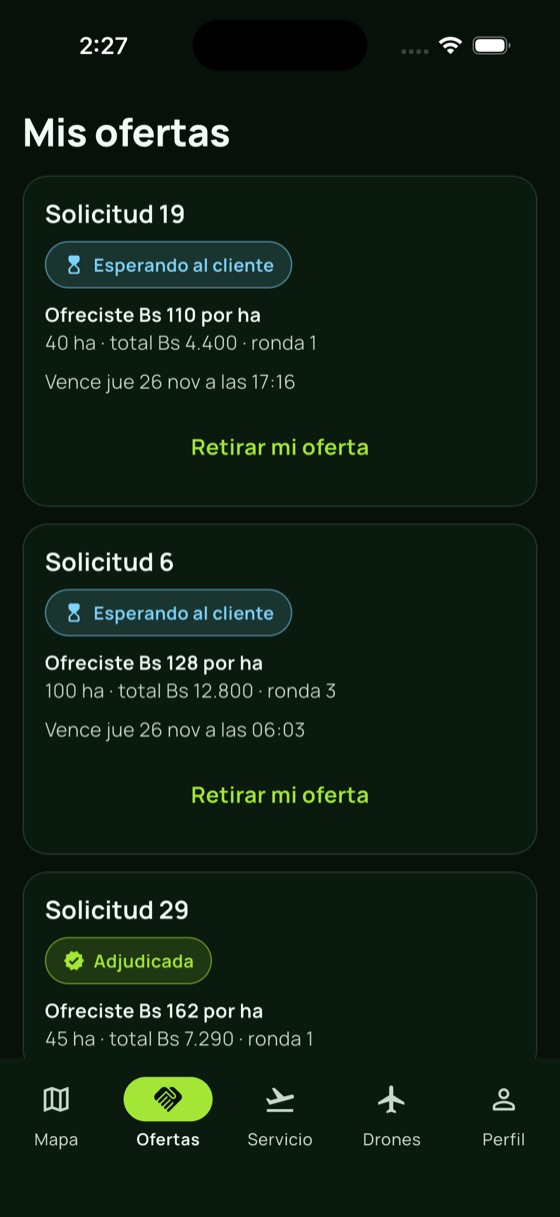
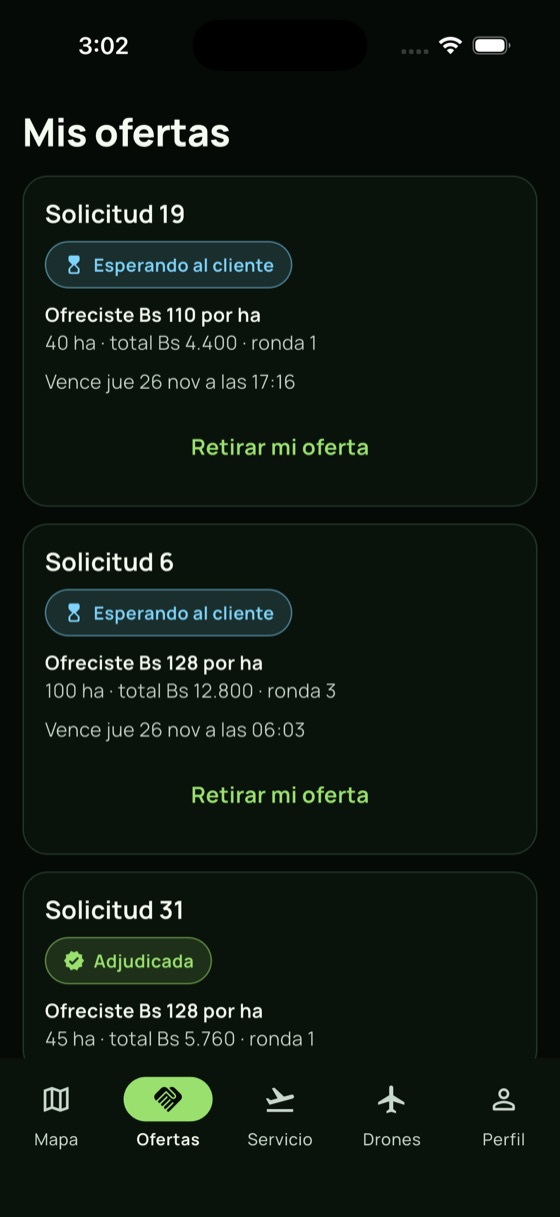
Actualiza capturas del recorrido y reescribe las capturas demo de los tres flavors

diff --git a/integration_test/cliente_capturas_test.dart b/integration_test/cliente_capturas_test.dart
@@ -40,80 +40,23 @@ void main() {
     await paso('solicitar', () async {
       await tocar(t, find.text('Solicitar').last, ms: 1500);
       await captura(t, 'cliente_09_solicitar_lote', ms: 2500);
-      await tocar(t, find.text('Maíz La Curva'));
-      await captura(t, 'cliente_10_solicitar_lote_elegido');
-      await tocar(t, find.byKey(const ValueKey('solicitar-continuar')));
-      await captura(t, 'cliente_11_solicitar_aplicacion');
-      await tocar(t, find.text('Insecticida piretroide'));
-      await bajar(t, 300);
-      await captura(t, 'cliente_12_solicitar_producto');
-      await tocar(t, find.byKey(const ValueKey('solicitar-continuar')));
-      await tocar(t, find.byKey(const ValueKey('fecha-2')));
-      await tocar(t, find.byKey(const ValueKey('ventana-amanecer')));
-      await captura(t, 'cliente_13_solicitar_cuando');
-      await tocar(t, find.byKey(const ValueKey('solicitar-continuar')));
-      await captura(t, 'cliente_14_solicitar_resumen', ms: 1500);
-      await tocar(
-        t,
-        find.byKey(const ValueKey('solicitar-continuar')),
-        ms: 1500,
-      );
-      await captura(t, 'cliente_15_buscando_proveedor', ms: 1500);
     });
-    await paso('servicios', () async {
-      await tocar(t, find.byKey(const ValueKey('buscando-ver-servicio')));
-      await captura(t, 'cliente_16_servicio_buscando');
-      await atras(t);
-      await tocar(t, find.text('Servicios').last, ms: 1500);
-      await captura(t, 'cliente_17_servicios_lista');
-      await tocar(t, find.byKey(const ValueKey('servicio-srv-1042')));
-      await captura(t, 'cliente_18_servicio_en_curso');
+    await paso('solicitudes', () async {
+      await tocar(t, find.text('Solicitudes').last, ms: 1500);
+      await captura(t, 'cliente_10_solicitudes_lista', ms: 1500);
+    });
+    await paso('detalle de solicitud', () async {
+      await tocar(t, porPrefijo('solicitud-'), ms: 2000);
+      await captura(t, 'cliente_11_solicitud_detalle', ms: 1500);
       await bajar(t, 500);
-      await captura(t, 'cliente_19_servicio_en_curso_abajo');
-      await bajar(t, -500);
-      await tocar(t, find.text('Seguir en vivo'), ms: 1500);
-      await captura(t, 'cliente_20_seguimiento', ms: 2000);
-      await bajar(t, 500);
-      await captura(t, 'cliente_21_seguimiento_abajo');
-      await atras(t);
-      await atras(t);
-    });
-    await paso('conformidad y calificación', () async {
-      await tocar(t, find.byKey(const ValueKey('servicio-srv-1036')));
-      await captura(t, 'cliente_22_servicio_por_conformar');
-      await tocar(t, find.text('Revisar y dar conformidad'), ms: 1500);
-      await captura(t, 'cliente_23_acta');
-      await bajar(t, 600);
-      await captura(t, 'cliente_24_acta_abajo');
-      await tocar(t, find.byKey(const ValueKey('dar-conformidad')));
-      await captura(t, 'cliente_25_confirmar_conformidad');
-      await tocar(
-        t,
-        find.byKey(const ValueKey('confirmar-conformidad')),
-        ms: 1500,
-      );
-      await tocar(t, find.text('Calificar al proveedor'));
-      await captura(t, 'cliente_26_calificar');
-      await tocar(t, find.bySemanticsLabel('4 estrellas'));
-      await captura(t, 'cliente_27_calificar_estrellas');
-      await tocar(
-        t,
-        find.byKey(const ValueKey('enviar-calificacion')),
-        ms: 1500,
-      );
-      await captura(t, 'cliente_28_calificado');
-      await atras(t);
-    });
-    await paso('servicio calificado y problema', () async {
-      await tocar(t, find.byKey(const ValueKey('servicio-srv-1039')));
-      await captura(t, 'cliente_29_servicio_calificado');
+      await captura(t, 'cliente_12_solicitud_detalle_abajo');
       await atras(t);
     });
     await paso('cuenta', () async {
       await tocar(t, find.text('Cuenta').last, ms: 1500);
-      await captura(t, 'cliente_30_cuenta');
+      await captura(t, 'cliente_13_cuenta');
       await bajar(t, 500);
-      await captura(t, 'cliente_31_cuenta_abajo');
+      await captura(t, 'cliente_14_cuenta_abajo');
     });
   });
 }

diff --git a/integration_test/piloto_capturas_test.dart b/integration_test/piloto_capturas_test.dart
@@ -1,40 +1,44 @@
-import 'package:flutter/widgets.dart' show Key;
+import 'package:agrocom_field/nucleo/marketplace/ui/mapa_lote.dart';
 import 'package:agrocom_field/piloto/app_piloto_demo.dart';
 import 'package:agrocom_field/piloto/di/dependencias_piloto.dart';
 import 'package:flutter_test/flutter_test.dart';
 
 import 'ayuda_capturas.dart';
 
+/// Capturas del flavor piloto con datos ficticios, una por destino de la
+/// barra de navegación (mapa, ofertas, servicio, drones, perfil) y su
+/// continuación. Se ejecutan con `tool/capturar_pantallas.sh`.
 void main() {
   binding;
+  ConfiguracionMapa.teselas = false;
   testWidgets('piloto: recorrido de capturas', (t) async {
     await t.pumpWidget(AppPilotoDemo(dependencias: DependenciasPiloto.demo()));
-    await captura(t, 'piloto_01_ofertas');
-    await paso('oferta detalle', () async {
-      await tocar(t, find.text('Ver detalle y mapa'));
-      await captura(t, 'piloto_02_oferta_detalle');
-      await bajar(t, 500);
-      await captura(t, 'piloto_03_oferta_detalle_abajo');
-      await atras(t);
-    });
-    await paso('servicio', () async {
-      await tocar(t, find.text('Servicio').last);
-      await captura(t, 'piloto_04_servicio');
-      await bajar(t, 600);
-      await captura(t, 'piloto_05_servicio_abajo');
-    });
-    await paso('detalle servicio', () async {
-      await tocar(t, find.byKey(const Key('boton_ver_detalle')));
-      await captura(t, 'piloto_06_servicio_detalle');
-      await bajar(t, 500);
-      await captura(t, 'piloto_07_servicio_detalle_abajo');
-      await atras(t);
-    });
-    await paso('sesion vuelo', () async {
-      await tocar(t, find.byKey(const Key('boton_abrir_sesion_vuelo')));
-      await captura(t, 'piloto_08_sesion_apertura');
-      await bajar(t, 600);
-      await captura(t, 'piloto_09_sesion_apertura_abajo');
-    });
+    await captura(t, 'piloto_01_mapa', ms: 1500);
+    for (final (indice, destino) in [
+      (2, 'ofertas'),
+      (3, 'servicio'),
+      (4, 'drones'),
+      (5, 'perfil'),
+    ]) {
+      await paso(destino, () async {
+        await tocar(t, find.text(_etiquetas[destino]!).last, ms: 1500);
+        await captura(
+          t,
+          'piloto_${indice.toString().padLeft(2, '0')}_$destino',
+        );
+        await bajar(t, 600);
+        await captura(
+          t,
+          'piloto_${indice.toString().padLeft(2, '0')}_${destino}_abajo',
+        );
+      });
+    }
   });
 }
+
+const _etiquetas = {
+  'ofertas': 'Ofertas',
+  'servicio': 'Servicio',
+  'drones': 'Drones',
+  'perfil': 'Perfil',
+};

diff --git a/integration_test/auxiliar_capturas_test.dart b/integration_test/auxiliar_capturas_test.dart
@@ -1,52 +1,27 @@
 import 'package:agrocom_field/auxiliar/app_auxiliar_demo.dart';
 import 'package:agrocom_field/auxiliar/di/dependencias_auxiliar.dart';
-import 'package:flutter/material.dart';
 import 'package:flutter_test/flutter_test.dart';
 
 import 'ayuda_capturas.dart';
 
+/// Capturas del flavor auxiliar con datos ficticios: el servicio adjudicado
+/// de su equipo y el perfil. Se ejecutan con `tool/capturar_pantallas.sh`.
 void main() {
   binding;
   testWidgets('auxiliar: recorrido de capturas', (t) async {
     await t.pumpWidget(
       AppAuxiliarDemo(dependencias: DependenciasAuxiliar.demo()),
     );
-    await captura(t, 'auxiliar_01_servicio');
+    await captura(t, 'auxiliar_01_servicio', ms: 1500);
     await paso('servicio abajo', () async {
       await bajar(t, 600);
       await captura(t, 'auxiliar_02_servicio_abajo');
     });
-    await paso('mezcla', () async {
-      await tocar(t, find.text('Mezcla').last);
-      await captura(t, 'auxiliar_03_mezcla');
-      await bajar(t, 500);
-      await captura(t, 'auxiliar_04_mezcla_abajo');
-    });
-    await paso('nueva carga', () async {
-      final f = find.byIcon(Icons.add_rounded);
-      if (f.evaluate().isNotEmpty) {
-        await tocar(t, f);
-        await captura(t, 'auxiliar_05_nueva_carga');
-        await atras(t);
-      }
-    });
-    await paso('ofertas', () async {
-      await tocar(t, find.text('Ofertas').last);
-      await captura(t, 'auxiliar_06_ofertas');
-      await tocar(t, porPrefijo('oferta-'));
-      await captura(t, 'auxiliar_07_oferta_detalle');
-      await bajar(t, 500);
-      await captura(t, 'auxiliar_08_oferta_detalle_abajo');
-      await atras(t);
-    });
     await paso('perfil', () async {
-      await tocar(t, find.text('Perfil').last);
-      await captura(t, 'auxiliar_09_perfil');
+      await tocar(t, find.text('Perfil').last, ms: 1500);
+      await captura(t, 'auxiliar_03_perfil');
       await bajar(t, 600);
-      await captura(t, 'auxiliar_10_perfil_abajo');
-      await bajar(t, -600);
-      await tocar(t, find.byKey(const Key('perfil-ver-drones')));
-      await captura(t, 'auxiliar_11_drones');
+      await captura(t, 'auxiliar_04_perfil_abajo');
     });
   });
 }

diff --git a/docs/gestion/recorrido-visual.md b/docs/gestion/recorrido-visual.md
@@ -31,3 +31,7 @@ Para guardarlas en el repositorio se comprimen a JPEG (`sips -s format jpeg -s f
 ## Cuándo correrlo
 
 Antes de abrir el PR de un cambio que toque un flujo del cliente o del piloto, y después de cambiar el contrato con la API. Complementa a las pruebas golden: estas validan cada pantalla aislada; el recorrido valida que el flujo real funciona con datos reales.
+
+## Capturas con datos ficticios
+
+Para los tres flavors, sin API, `tool/capturar_pantallas.sh <cliente|piloto|auxiliar> <simulador> <dispositivo> <claro|oscuro|campo>` corre `integration_test/<flavor>_capturas_test.dart` en modo demo y deja JPEG (560 px, calidad 78) en `docs/diseno/capturas/<flavor>/<dispositivo>/`. Cubre una pantalla por destino de navegación: cliente (acceso, inicio, solicitar, solicitudes, cuenta), piloto (mapa, ofertas, servicio, drones, perfil) y auxiliar (servicio, perfil). Los flujos completos con datos reales los cubre el recorrido de arriba.
